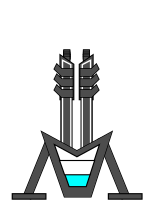
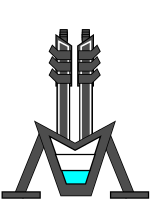
animace kanonu

Changed region(s): [[0.0, 0.12, 1.0, 1.0]]

diff --git a/main_individuální_projekt.py b/main_individuální_projekt.py
@@ -12,7 +12,7 @@ Pohyblive_pozadi = pygame.image.load("Pozadí_pohyblivé.png")
 kanon13= pygame.image.load("kanon_1l3.png")
 kanon23= pygame.image.load("kanon_2l3.png")
 kanon33= pygame.image.load("kanon_3l3.png")
-
+kanon43 = pygame.image.load("kanon_4l3.png")
 
 
 
@@ -24,7 +24,7 @@ kanon33= pygame.image.load("kanon_3l3.png")
 pohyb_pozadí = 0
 rozdil_pozadi = 1920
 výška, šířka = 1080, 1920
-hrac_x = šířka * 1 / 9
+hrac_x = šířka * 1 / 5
 hrac_y = výška / 2
 zivoty = 5
 uhel=0
@@ -47,6 +47,8 @@ pygame.display.set_caption("zkouška")
 pozadi_barva = (0, 255, 255)
 
 while True:
+    nepritel.nabíjení()
+    
     if letadlo.smrt == False:
         nepritel.pohyb_kanonu()
         pohyb_pozadí -= nepritel.rychlost_pozadi
@@ -77,7 +79,16 @@ while True:
     obrazovka.blit(Pohyblive_pozadi, (umisteni_pozadi1, výška - 100))  # vyobrazení pozadí
     obrazovka.blit(Pohyblive_pozadi, (umisteni_pozadi2, výška - 100))
     
-    obrazovka.blit(kanon13,(nepritel.poloha_x,nepritel.poloha_y))
+    
+    if nepritel.vystrel == 1: # animace nabíjení
+        obrazovka.blit(kanon13,(nepritel.poloha_x,nepritel.poloha_y))
+    elif nepritel.vystrel == 2:
+        obrazovka.blit(kanon23,(nepritel.poloha_x,nepritel.poloha_y))
+    elif nepritel.vystrel == 3 :
+        obrazovka.blit(kanon33,(nepritel.poloha_x,nepritel.poloha_y))
+    else:
+        obrazovka.blit(kanon43,(nepritel.poloha_x,nepritel.poloha_y))
+    
     
     otočená_stíhačka = pygame.transform.rotate(stihacka, letadlo.uhel)
     rect = otočená_stíhačka.get_rect(center=(letadlo.x, letadlo.y))

diff --git a/nepritel.py b/nepritel.py
@@ -1,10 +1,29 @@
 class Nepritel:
-    def __init__(self,rychlost_pozadi,poloha_x,poloha_y,šířka, výška,vystrel):
+    def __init__(self, rychlost_pozadi, poloha_x, poloha_y, šířka, výška, vystrel):
         self.rychlost_pozadi = rychlost_pozadi
         self.sirka = šířka
         self.vyska = výška
         self.poloha_y = poloha_y
-        self.poloha_x = šířka
+        self.poloha_x = poloha_x  # Oprava: Použití správné proměnné
         self.vystrel = vystrel
+
     def pohyb_kanonu(self):
         self.poloha_x -= self.rychlost_pozadi
+    
+    def nabíjení(self):
+        vzdalenost_pred_vystrelem = self.sirka
+        vzdalenost_pred_vystrelem -= self.sirka * 1 / 5
+        vzdalenost_pred_vystrelem = vzdalenost_pred_vystrelem / 3
+        vzdalenost_pred_vystrelem1 = vzdalenost_pred_vystrelem + self.sirka * 1 / 5
+        vzdalenost_pred_vystrelem2 = vzdalenost_pred_vystrelem * 2 + self.sirka * 1 / 5
+        
+        if self.poloha_x > vzdalenost_pred_vystrelem2:
+            self.vystrel = 1
+        elif self.poloha_x > vzdalenost_pred_vystrelem1:
+            self.vystrel = 2
+        elif self.poloha_x > self.sirka * 1 / 5:
+            self.vystrel = 3
+        elif self.poloha_x-10 < self.sirka * 1 / 5 and self.poloha_x+10 > self.sirka * 1 / 5:
+            self.vystrel = 4
+        else:
+            self.vystrel = 0
